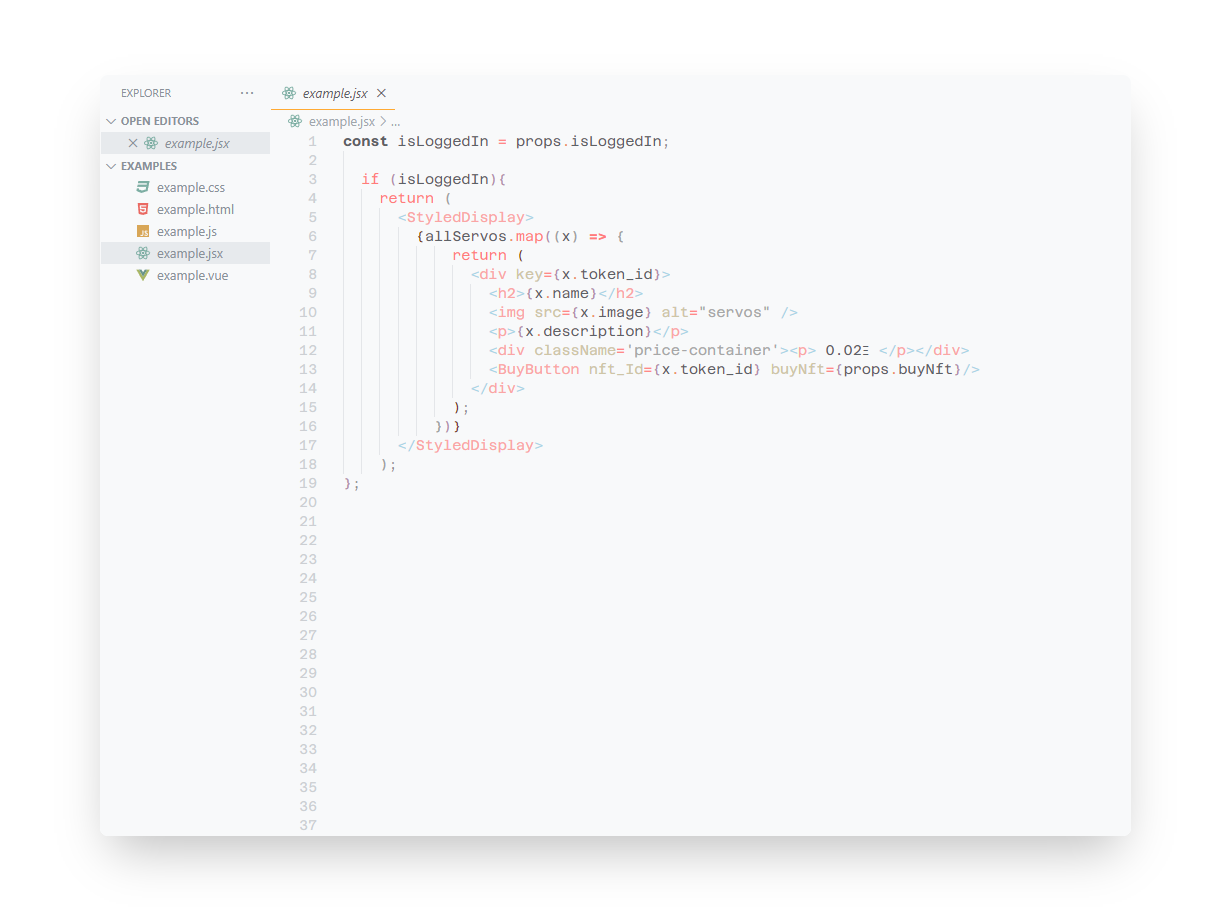
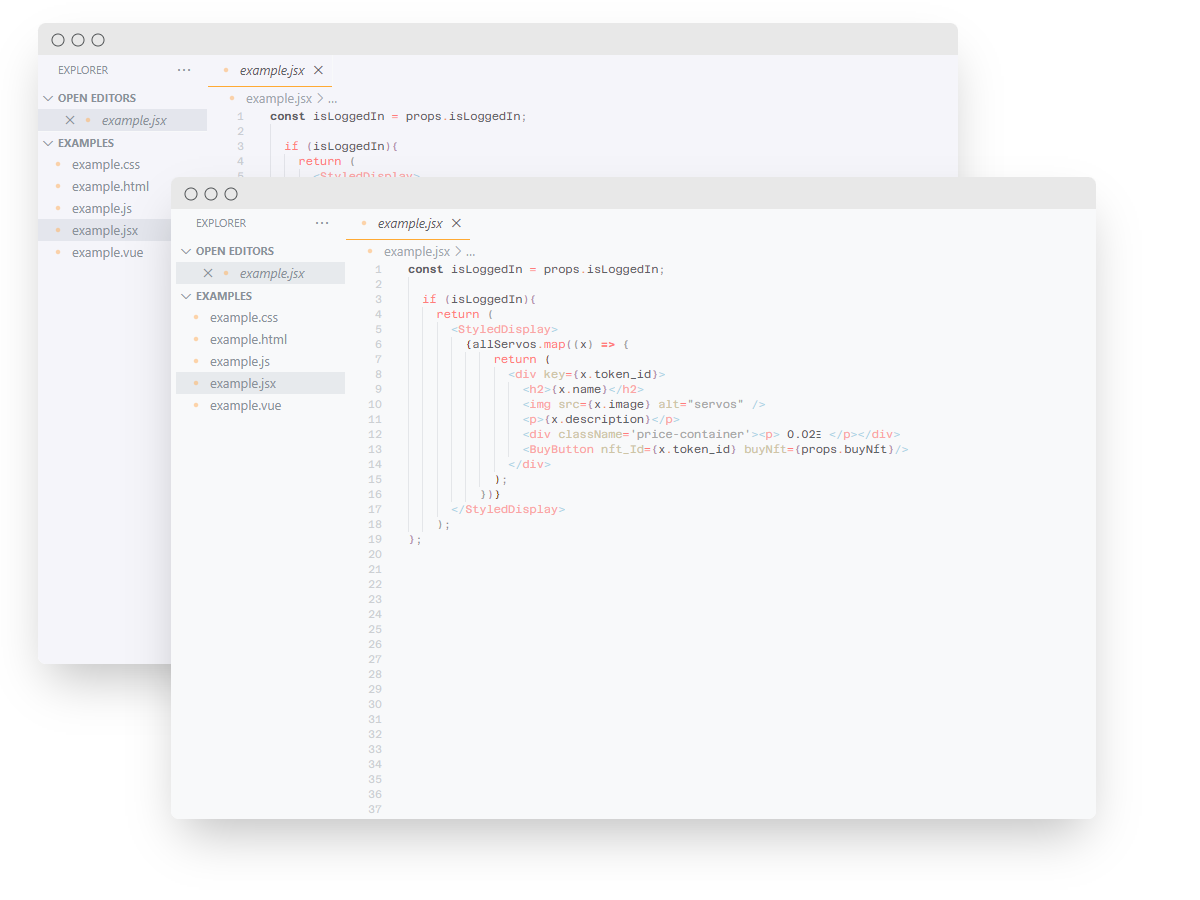
update README.md, added newer pics

diff --git a/README.md b/README.md
@@ -22,23 +22,23 @@ Designed as a light and airy theme, inspired by the iconic Russian cream dessert
 
 <div align="center"> <h4> JavaScript </h4> </div>
 
-![Screenshot JavaScript](https://imgur.com/Q8AEX2R.png)
+![Screenshot JavaScript](https://imgur.com/i5mvoXI.png)
 
 <div align="center"> <h4> HTML </h4> </div>
 
-![Screenshot html](https://imgur.com/oH4M10p.png)
+![Screenshot html](https://imgur.com/yvPf5wk.png)
 
 <div align="center"> <h4> CSS </h4> </div>
 
-![Screenshot css](https://imgur.com/v823ohS.png)
+![Screenshot css](https://imgur.com/Hg4cVll.png)
 
 <div align="center"> <h4> Vue.js </h4> </div>
 
-![Screenshot vue](https://imgur.com/ZoLC79e.png)
+![Screenshot vue](https://imgur.com/9bXxBnW.png)
 
 <div align="center"> <h4> React.js </h4> </div>
 
-![Screenshot react](https://imgur.com/n7k7u2a.png)
+![Screenshot react](https://imgur.com/DV6kZA7.png)
 ------------------------------------------------
 
 ### Installation
